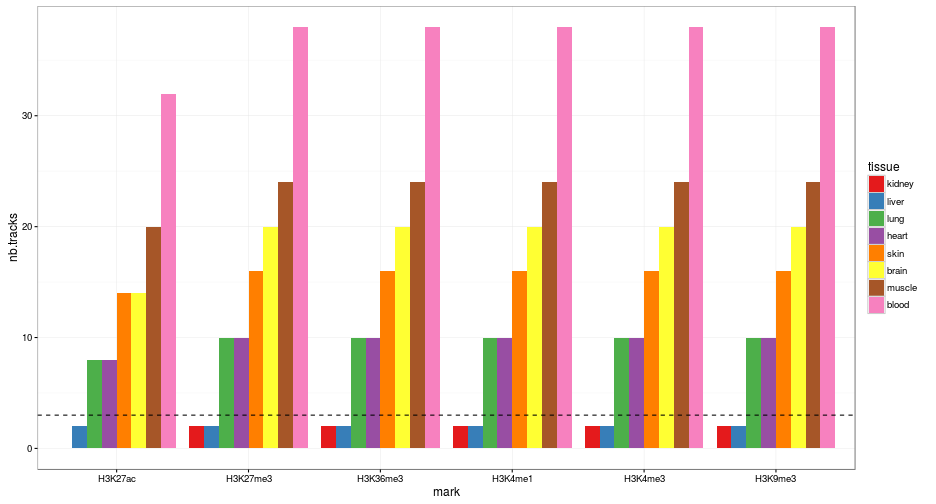
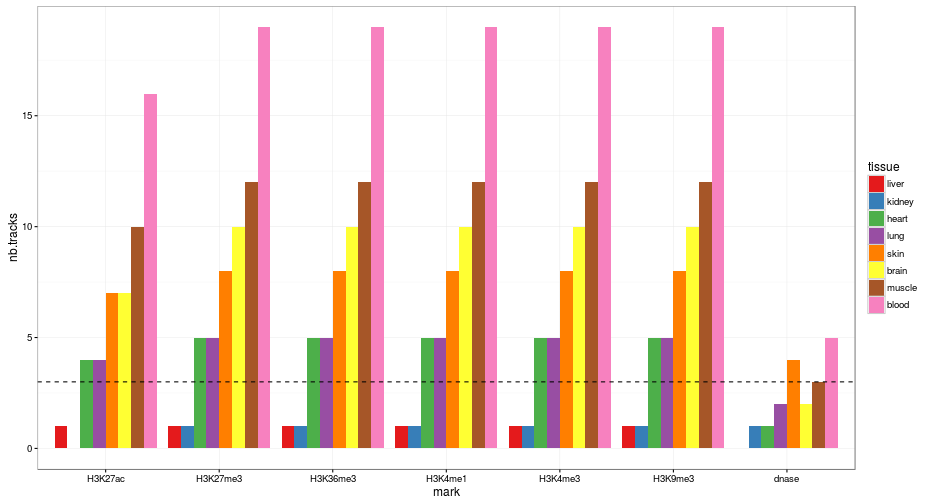
better epi marks

diff --git a/_posts/2016-09-06-epigeneticTracks.md b/_posts/2016-09-06-epigeneticTracks.md
@@ -23,11 +23,11 @@ The R-markdown source code is in the website's [GitHub](https://github.com/jmonl
 
 I'll use the [AnnotationHub](http://bioconductor.org/packages/release/bioc/html/AnnotationHub.html) package, which links Encode and EpigenomeRoadmap data (and more) directly in R. 
 
-I search for *peaks* in *hg19* from H3K27ac, H3K27me3, H3K36me3, H3K4me1, H3K4me3 or H3K9me3, in brain, blood, liver, muscle, lung, kidney, skin or heart. Let's see if I can find what I want.
+I search for *narrowPeak* in *hg19* from H3K27ac, H3K27me3, H3K36me3, H3K4me1, H3K4me3 or H3K9me3, in brain, blood, liver, muscle, lung, kidney, skin or heart. I also look for DNase peaks. Let's see if I can find what I want.
 
 ![plot of chunk unnamed-chunk-2]({{ site.baseurl }}images/figure/source/2016-09-06-epigeneticTracks/unnamed-chunk-2-1.png)
 
-Except for liver and kidney, the other tissues have more than 3 tracks for each mark. In total, it represents 686 different tracks, that I want to merge into one track per mark/tissue.
+Most tissues have more than 3 tracks for each histone mark. I'll just exclude liver and knidney that don't. DNase is a bit more rare but there is at least one track per tissue. In total, it represents 360 different tracks, that I want to merge into one track per mark/tissue.
 
 ## Download and merge tracks
 
@@ -43,19 +43,12 @@ The results were uploaded there: [https://dl.dropboxusercontent.com/s/8c412u1ug2
 
 ![plot of chunk unnamed-chunk-4]({{ site.baseurl }}images/figure/source/2016-09-06-epigeneticTracks/unnamed-chunk-4-1.png)![plot of chunk unnamed-chunk-4]({{ site.baseurl }}images/figure/source/2016-09-06-epigeneticTracks/unnamed-chunk-4-2.png)![plot of chunk unnamed-chunk-4]({{ site.baseurl }}images/figure/source/2016-09-06-epigeneticTracks/unnamed-chunk-4-3.png)
 
-## Density map
-
-Using non-overlapping windows of 1 Mb the top 10 denser Mb in tissue-specific marks looks like this:
-
-![plot of chunk unnamed-chunk-5]({{ site.baseurl }}images/figure/source/2016-09-06-epigeneticTracks/unnamed-chunk-5-1.png)
-
 ## Limitations
 
-I searched all tracks with keywords *$tissue*, *$mark* (and *peak*, *hg19*). 
-**It's possible that several tracks correspond to the same sample**, for example one has *narrowPeaks* while the other has *broadPeaks*.
-In summary, I can't make sure that the different tracks come from different replicates.
-Maybe there is a way to automatically find and integrate this information but it might be painful if the metadata is messy.
-Instead I decided to use a **more stringent cutoff** when selecting the "replicated" regions: I keep regions that are seen in more than half the tracks.
+I searched all tracks with keywords *$tissue*, *$mark* (and *narrowPeak*, *hg19*). 
+I'm **not completely sure that the different tracks come from different replicates.** 
+I think I avoided the "bioinformatics" replicates by taking only the *narrowPeaks*.
+And when there are different sub-tissues (e.g. for brain), I decided to keep only regions supported by half the tracks, but then I **might miss the specific a sub-tissue regions**.
 
 I also made **some arbitrary choices**. 
 For example, in for a particular mark/tissue, I stitch together regions that are at 500 bp or less.
